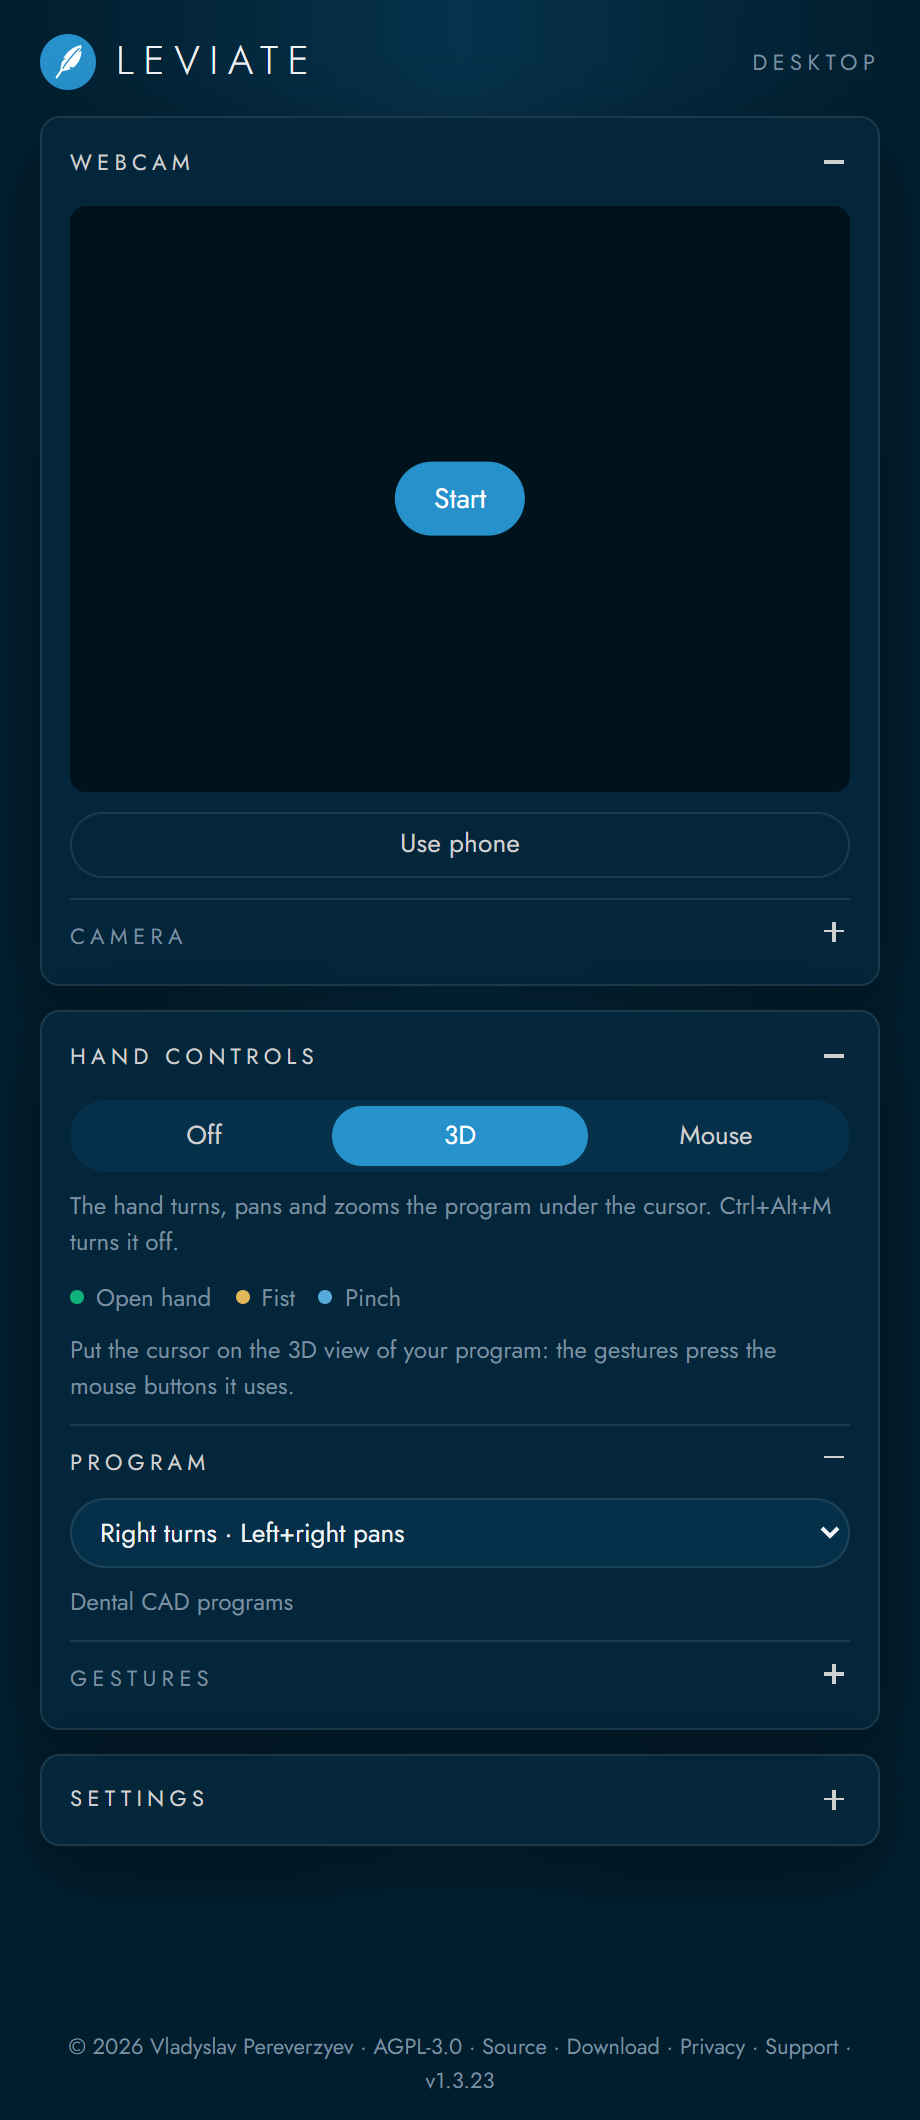
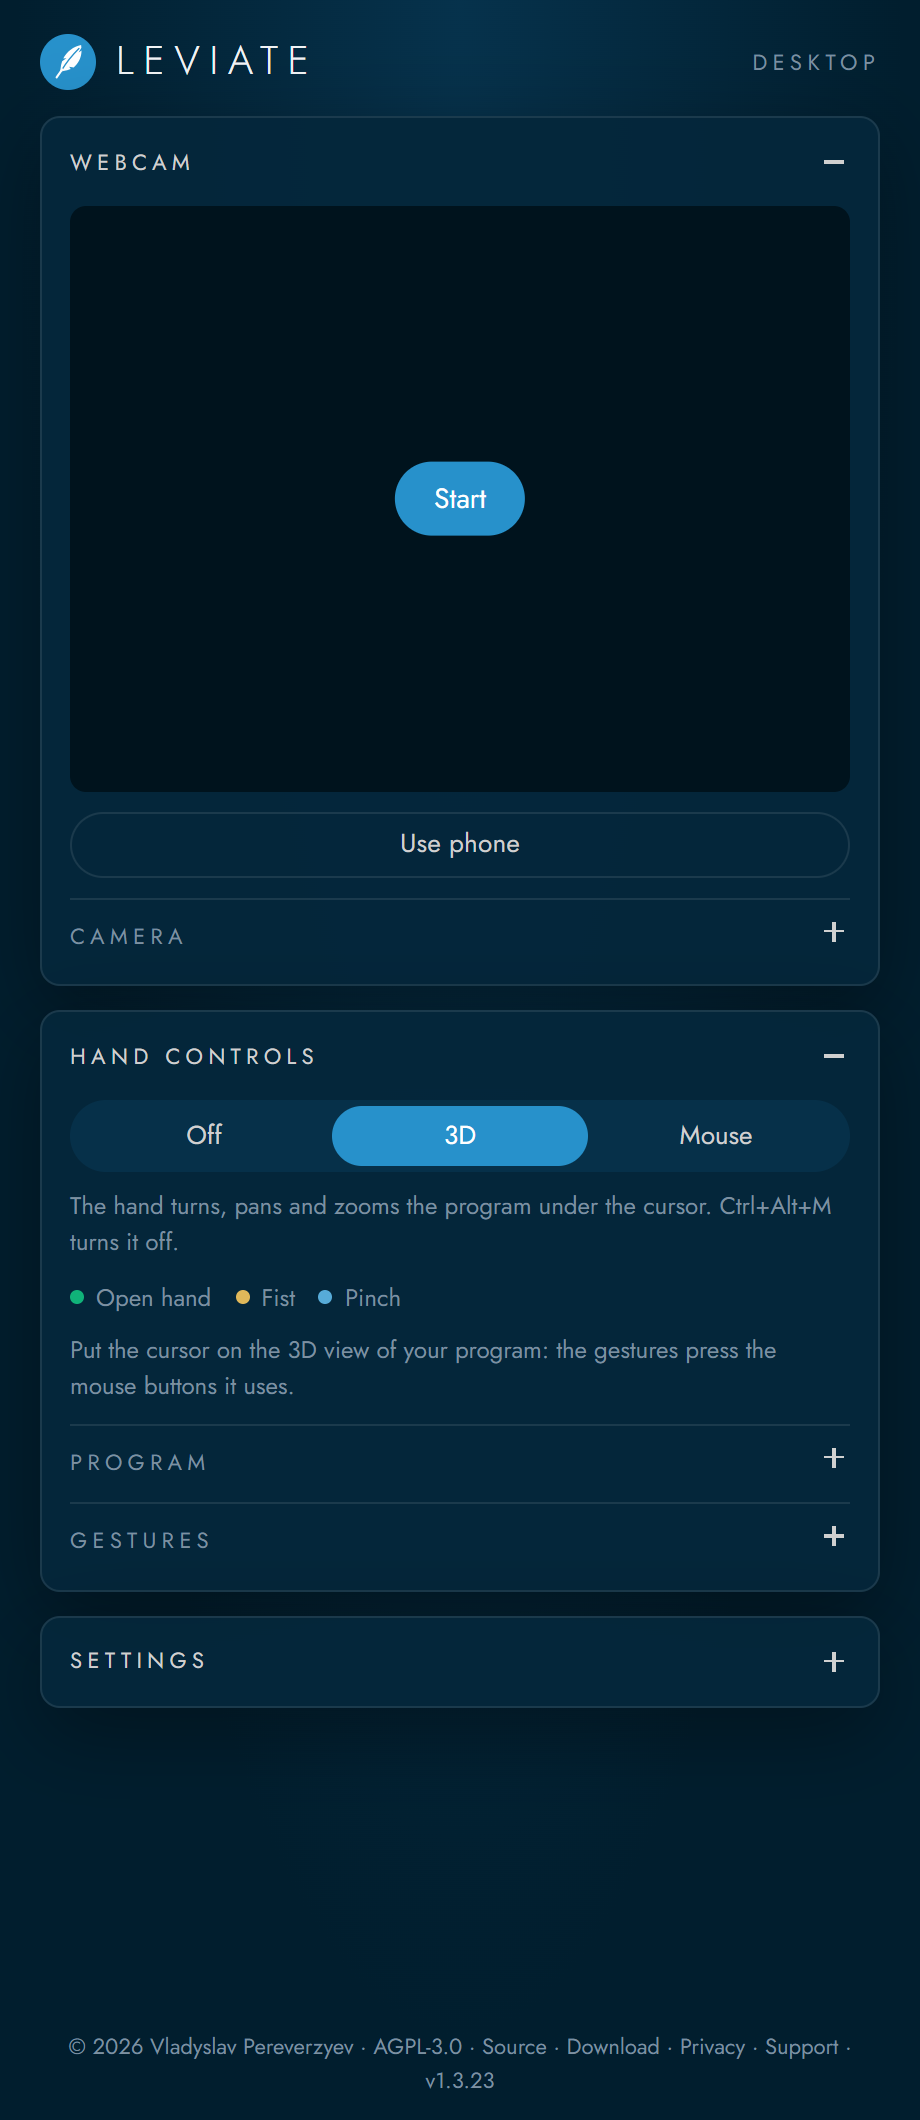
Program list of Leviate for Desktop named after the programs, with the buttons explained under each one

diff --git a/web/download.html b/web/download.html
@@ -33,7 +33,7 @@
   {"@context":"https://schema.org","@type":"SoftwareApplication","name":"Leviate","url":"https://vladpereverzyev.github.io/leviate/download.html","applicationCategory":"MultimediaApplication","operatingSystem":"Windows, macOS, Linux, any modern browser","downloadUrl":"https://github.com/vladpereverzyev/leviate/releases/latest","installUrl":"https://vladpereverzyev.github.io/leviate/download.html","description":"Move 3D scans, any 3D program and the mouse with your hand, using a webcam or your phone.","image":"https://vladpereverzyev.github.io/leviate/img/screenshot.png","license":"https://www.gnu.org/licenses/agpl-3.0.html","isAccessibleForFree":true,"offers":{"@type":"Offer","price":"0","priceCurrency":"EUR"},"author":{"@type":"Person","name":"Vladyslav Pereverzyev","url":"https://www.vladpereverzyev.com"}}
   </script>
   <script type="application/ld+json">
-  {"@context":"https://schema.org","@type":"FAQPage","mainEntity":[{"@type":"Question","name":"Do I need to install anything?","acceptedAnswer":{"@type":"Answer","text":"No. The Web App runs in Chrome, Edge, Firefox or Safari, on a computer or a phone. Install Leviate for Desktop to move your own 3D program or the mouse with your hand, and the add-on to use it inside Blender 4.2 or later. Everywhere your phone can be the camera: choose Use phone and scan the QR code, no app needed."}},{"@type":"Question","name":"The camera does not start. What can I do?","acceptedAnswer":{"@type":"Answer","text":"Allow the camera when the browser or the system asks for it. Close other programs that use the camera, such as video calls or another Leviate window, then press Start again. With several cameras, choose another one in the Camera section."}},{"@type":"Question","name":"Windows, macOS or Linux stops the app.","acceptedAnswer":{"@type":"Answer","text":"Leviate for Desktop is not signed yet. On Windows choose More info and then Run anyway; Smart App Control, on some Windows 11 computers, can block it without that choice, so there use the Web App for now. On macOS open System Settings, Privacy & Security, choose Open Anyway, then allow Leviate in Accessibility. On Linux choose the Xorg (X11) session: Wayland does not let programs move the mouse."}},{"@type":"Question","name":"Which Program mouse should I choose for my 3D program?","acceptedAnswer":{"@type":"Answer","text":"Look at which buttons your program uses with the real mouse to turn and to move the view, and choose the same scheme under Program. The default, Right turns and Left+right pans, fits dental CAD programs; Blender uses Middle turns and Shift+middle pans. Custom takes any button with Shift, Ctrl or Alt. Put the cursor on the 3D view first."}},{"@type":"Question","name":"How do I stop the hand?","acceptedAnswer":{"@type":"Answer","text":"Press Ctrl+Alt+M, or Ctrl+Option+M on macOS, from any program: the hand turns off, and the same keys bring it back. You can also choose Off in Leviate, or simply lower the hand."}},{"@type":"Question","name":"Is the video recorded or sent anywhere?","acceptedAnswer":{"@type":"Answer","text":"No. The hand is tracked on your device and the video is never recorded or uploaded. With a phone as the camera, the free PeerJS server only introduces the two devices and sees their IP addresses; the video goes straight between them, encrypted."}}]}
+  {"@context":"https://schema.org","@type":"FAQPage","mainEntity":[{"@type":"Question","name":"Do I need to install anything?","acceptedAnswer":{"@type":"Answer","text":"No. The Web App runs in Chrome, Edge, Firefox or Safari, on a computer or a phone. Install Leviate for Desktop to move your own 3D program or the mouse with your hand, and the add-on to use it inside Blender 4.2 or later. Everywhere your phone can be the camera: choose Use phone and scan the QR code, no app needed."}},{"@type":"Question","name":"The camera does not start. What can I do?","acceptedAnswer":{"@type":"Answer","text":"Allow the camera when the browser or the system asks for it. Close other programs that use the camera, such as video calls or another Leviate window, then press Start again. With several cameras, choose another one in the Camera section."}},{"@type":"Question","name":"Windows, macOS or Linux stops the app.","acceptedAnswer":{"@type":"Answer","text":"Leviate for Desktop is not signed yet. On Windows choose More info and then Run anyway; Smart App Control, on some Windows 11 computers, can block it without that choice, so there use the Web App for now. On macOS open System Settings, Privacy & Security, choose Open Anyway, then allow Leviate in Accessibility. On Linux choose the Xorg (X11) session: Wayland does not let programs move the mouse."}},{"@type":"Question","name":"Which Program mouse should I choose for my 3D program?","acceptedAnswer":{"@type":"Answer","text":"Choose your program under Program: dental CAD is the default, then Blender, SketchUp, SOLIDWORKS, Fusion, Rhino and more. Under each name Leviate tells which buttons it uses, so for a program not in the list choose the one with the same buttons, or Custom for any button with Shift, Ctrl or Alt. Put the cursor on the 3D view first."}},{"@type":"Question","name":"How do I stop the hand?","acceptedAnswer":{"@type":"Answer","text":"Press Ctrl+Alt+M, or Ctrl+Option+M on macOS, from any program: the hand turns off, and the same keys bring it back. You can also choose Off in Leviate, or simply lower the hand."}},{"@type":"Question","name":"Is the video recorded or sent anywhere?","acceptedAnswer":{"@type":"Answer","text":"No. The hand is tracked on your device and the video is never recorded or uploaded. With a phone as the camera, the free PeerJS server only introduces the two devices and sees their IP addresses; the video goes straight between them, encrypted."}}]}
   </script>
   <link rel="icon" href="favicon.ico" sizes="48x48">
   <link rel="icon" href="icons/icon.svg" type="image/svg+xml">
@@ -249,7 +249,7 @@
         <div class="faq__col">
           <details class="faq__item">
             <summary>Which Program mouse should I choose for my 3D program?</summary>
-            <div class="faq__ans"><p>Look at which buttons your program uses with the real mouse to turn and to move the view, and choose the same scheme under Program. The default, Right turns and Left+right pans, fits dental CAD programs; Blender uses Middle turns and Shift+middle pans. Custom takes any button with Shift, Ctrl or Alt. Put the cursor on the 3D view first.</p></div>
+            <div class="faq__ans"><p>Choose your program under Program: dental CAD is the default, then Blender, SketchUp, SOLIDWORKS, Fusion, Rhino and more. Under each name Leviate tells which buttons it uses, so for a program not in the list choose the one with the same buttons, or Custom for any button with Shift, Ctrl or Alt. Put the cursor on the 3D view first.</p></div>
           </details>
           <details class="faq__item">
             <summary>How do I stop the hand?</summary>

diff --git a/desktop/renderer/control3d.js b/desktop/renderer/control3d.js
@@ -14,22 +14,24 @@ import { Mode } from '../js/gestures.js';
 // speed scales DRAG and STEPS for programs that turn, pan or zoom much faster or slower
 // than most, so the hand feels the same as in Blender.
 export const PROFILES = [
-  { id: 'right-chord', name: 'Right turns · Left+right pans', hint: 'Dental CAD programs',
+  // Named after the programs; the hint tells the buttons, for a program not in the list.
+  { id: 'right-chord', name: 'exocad',
+    hint: 'Right button turns, left and right buttons together pan. exocad is a trademark of exocad GmbH: Leviate is not affiliated with it.',
     rotate: { button: 'right', keys: [] }, pan: { button: 'left+right', keys: [] },
     speed: { rotate: 2.4, pan: 1.2, zoom: 1.12 } },
-  { id: 'middle-shift', name: 'Middle turns · Shift+middle pans', hint: 'Blender, SketchUp',
+  { id: 'middle-shift', name: 'Blender, SketchUp', hint: 'Middle button turns, Shift and middle button pan.',
     rotate: { button: 'middle', keys: [] }, pan: { button: 'middle', keys: ['shift'] } },
-  { id: 'middle-ctrl', name: 'Middle turns · Ctrl+middle pans', hint: 'SOLIDWORKS',
+  { id: 'middle-ctrl', name: 'SOLIDWORKS', hint: 'Middle button turns, Ctrl and middle button pan.',
     rotate: { button: 'middle', keys: [] }, pan: { button: 'middle', keys: ['ctrl'] } },
-  { id: 'shift-middle', name: 'Shift+middle turns · Middle pans', hint: 'Fusion',
+  { id: 'shift-middle', name: 'Fusion', hint: 'Shift and middle button turn, middle button pans.',
     rotate: { button: 'middle', keys: ['shift'] }, pan: { button: 'middle', keys: [] } },
-  { id: 'right-middle', name: 'Right turns · Middle pans', hint: 'Many CAD programs',
+  { id: 'right-middle', name: 'Other CAD programs', hint: 'Right button turns, middle button pans.',
     rotate: { button: 'right', keys: [] }, pan: { button: 'middle', keys: [] } },
-  { id: 'right-shift', name: 'Right turns · Shift+right pans', hint: 'Rhino',
+  { id: 'right-shift', name: 'Rhino', hint: 'Right button turns, Shift and right button pan.',
     rotate: { button: 'right', keys: [] }, pan: { button: 'right', keys: ['shift'] } },
-  { id: 'left-right', name: 'Left turns · Right pans', hint: 'Leviate on the web, many viewers',
+  { id: 'left-right', name: 'Web', hint: 'Left button turns, right button pans, like Leviate on the web.',
     rotate: { button: 'left', keys: [] }, pan: { button: 'right', keys: [] } },
-  { id: 'custom', name: 'Custom', hint: 'Choose the buttons below' },
+  { id: 'custom', name: 'Custom', hint: 'Choose the buttons below.' },
 ];
 
 // Pixels of drag for a move of the hand across the whole camera picture.

diff --git a/desktop/README.md b/desktop/README.md
@@ -47,19 +47,19 @@ The app is not signed yet:
 ## 3D
 
 1. Open your 3D program and put the cursor on its 3D view.
-2. In Leviate choose **3D** and, under **Program mouse**, how that program uses the mouse.
+2. In Leviate choose **3D** and your program under **Program**.
 3. Open hand turns, fist pans, pinch zooms.
 
-| Program mouse | For example |
-| --- | --- |
-| Right turns · Left+right pans | Dental CAD programs, the default |
-| Middle turns · Shift+middle pans | Blender, SketchUp |
-| Middle turns · Ctrl+middle pans | SOLIDWORKS |
-| Shift+middle turns · Middle pans | Fusion |
-| Right turns · Middle pans | Many CAD programs |
-| Right turns · Shift+right pans | Rhino |
-| Left turns · Right pans | Leviate on the web, many viewers |
-| Custom | Any button with Shift, Ctrl or Alt, for turning and for panning |
+| Program | Turn | Pan |
+| --- | --- | --- |
+| Dental CAD, the default | Right button | Left and right buttons together |
+| Blender, SketchUp | Middle button | Shift and middle button |
+| SOLIDWORKS | Middle button | Ctrl and middle button |
+| Fusion | Shift and middle button | Middle button |
+| Other CAD programs | Right button | Middle button |
+| Rhino | Right button | Shift and right button |
+| Web, like Leviate on the web | Left button | Right button |
+| Custom | Any button with Shift, Ctrl or Alt | Any button with Shift, Ctrl or Alt |
 
 The gestures become mouse drags with those buttons, and the pinch becomes wheel steps.
 Left+right holds both buttons together: the right one goes down first and up last, so the

diff --git a/README.fr.md b/README.fr.md
@@ -196,9 +196,9 @@ sa vidéo directement à Blender. Guide complet dans
 ou le téléphone (code QR, comme l'app web). Elle a deux modules :
 
 - **3D** : les gestes de l'app web dans votre logiciel 3D. La main ouverte tourne, le poing
-  déplace, le pincement zoome la vue sous le curseur. Choisissez comment ce logiciel utilise
-  la souris (*Right turns · Left+right pans* par défaut, celui des logiciels de CAO dentaire,
-  ou par exemple *Middle turns · Shift+middle pans* pour Blender) ou réglez les boutons.
+  déplace, le pincement zoome la vue sous le curseur. Choisissez votre logiciel dans Program
+  (CAO dentaire par défaut, Blender, SketchUp, SOLIDWORKS, Fusion, Rhino et d'autres) ou
+  réglez les boutons.
 - **Mouse** : la main ouverte déplace le curseur, un doigt immobile un instant fait un clic
   gauche, deux doigts immobiles un clic droit.
 

diff --git a/README.de.md b/README.de.md
@@ -189,9 +189,9 @@ in [integrations/blender](integrations/blender/).
 Handy (QR-Code, wie in der Web-App). Sie hat zwei Module:
 
 - **3D**: die Gesten der Web-App in deinem 3D-Programm. Offene Hand dreht, Faust verschiebt,
-  Pinch zoomt die Ansicht unter dem Cursor. Wähle, wie das Programm die Maus nutzt (zum
-  Standard *Right turns · Left+right pans* wie in Dental-CAD-Programmen, oder zum Beispiel
-  *Middle turns · Shift+middle pans* für Blender) oder lege die Tasten selbst fest.
+  Pinch zoomt die Ansicht unter dem Cursor. Wähle dein Programm unter Program
+  (Dental-CAD als Standard, Blender, SketchUp, SOLIDWORKS, Fusion, Rhino und weitere) oder
+  lege die Tasten selbst fest.
 - **Mouse**: die offene Hand bewegt den Cursor, ein kurz ruhig gehaltener Finger ist ein
   Linksklick, zwei Finger ein Rechtsklick.
 

diff --git a/README.es.md b/README.es.md
@@ -191,9 +191,9 @@ vídeo directamente a Blender. Guía completa en
 móvil (código QR, como en la app web). Tiene dos módulos:
 
 - **3D**: los gestos de la app web en tu programa 3D. La mano abierta gira, el puño desplaza,
-  el pellizco hace zoom en la vista bajo el cursor. Elige cómo usa el ratón ese programa
-  (*Right turns · Left+right pans* por defecto, el de los programas CAD dentales, o por
-  ejemplo *Middle turns · Shift+middle pans* para Blender) o define tú los botones.
+  el pellizco hace zoom en la vista bajo el cursor. Elige tu programa en Program
+  (CAD dental por defecto, Blender, SketchUp, SOLIDWORKS, Fusion, Rhino y otros) o define tú
+  los botones.
 - **Mouse**: la mano abierta mueve el cursor, un dedo quieto un momento hace clic izquierdo,
   dos dedos quietos hacen clic derecho.
 

diff --git a/README.it.md b/README.it.md
@@ -188,9 +188,9 @@ suo video direttamente a Blender. Guida completa in
 telefono (codice QR, come nell'app web). Ha due moduli:
 
 - **3D**: i gesti dell'app web nel tuo programma 3D. La mano aperta ruota, il pugno sposta,
-  il pizzico fa zoom sulla vista sotto il cursore. Scegli come quel programma usa il mouse
-  (*Right turns · Left+right pans* di serie, quello dei CAD dentali, oppure per esempio
-  *Middle turns · Shift+middle pans* per Blender) o imposta tu i tasti.
+  il pizzico fa zoom sulla vista sotto il cursore. Scegli il tuo programma in Program
+  (CAD dentale di serie, Blender, SketchUp, SOLIDWORKS, Fusion, Rhino e altri) o imposta tu
+  i tasti.
 - **Mouse**: la mano aperta sposta il cursore, un dito fermo per un momento fa clic
   sinistro, due dita ferme fanno clic destro.
 

diff --git a/README.md b/README.md
@@ -182,9 +182,9 @@ to Blender. Full guide in
 phone (QR code, like the web app). It has two modules:
 
 - **3D**: the gestures of the web app in your 3D program. Open hand turns, fist pans, pinch
-  zooms the view under the cursor. Choose how that program uses the mouse (*Right turns ·
-  Left+right pans* by default, used by dental CAD programs, or for example *Middle turns ·
-  Shift+middle pans* for Blender) or set the buttons yourself.
+  zooms the view under the cursor. Choose your program under Program (dental CAD
+  by default, Blender, SketchUp, SOLIDWORKS, Fusion, Rhino and more) or set the buttons
+  yourself.
 - **Mouse**: open hand moves the cursor, one finger held still is a left click, two
   fingers held still a right click.
 
